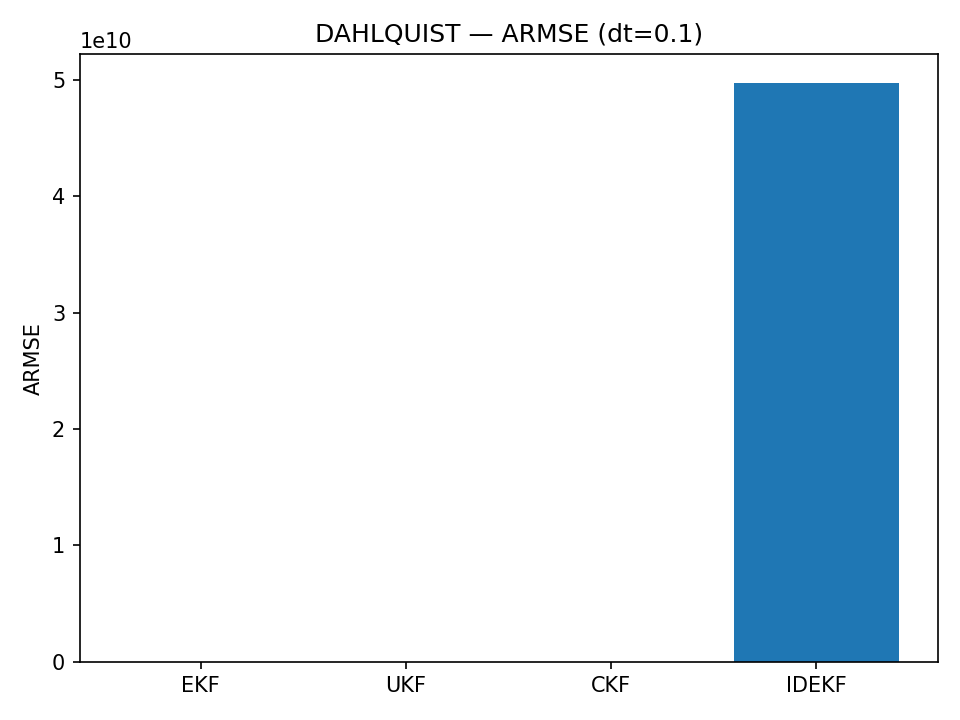
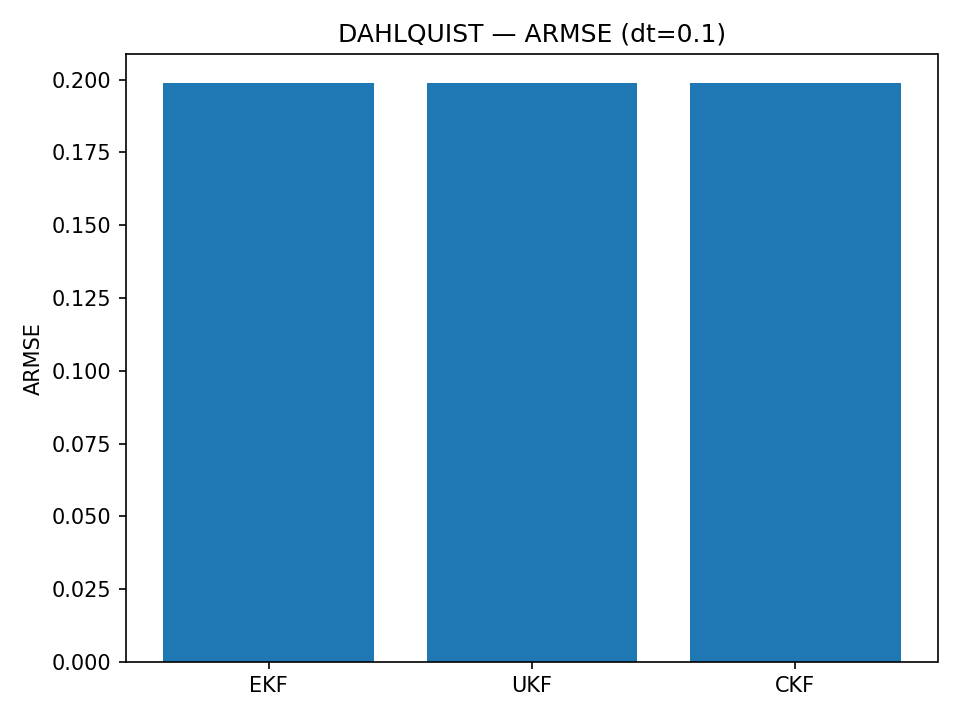
adjusted input for models

diff --git a/filters.py b/filters.py
@@ -219,14 +219,20 @@ class IDEKF:
     def predict(self, x: np.ndarray, P: np.ndarray):
         self._ensure_initialized(x, P)
 
-
-        Phi_k   = self.dm.g(x) 
-        B, V, _ = cov_to_inf(P, self._n)       
+        Phi_k   = self.dm.F(self.u.ravel())
         gamma_k = np.eye(self._n)
         Q_k = self.dm.Q
 
-        self.u, self.B, self.V = tupdate(x, B, V, Phi_k, gamma_k, Q_k)
+        u0 = np.asarray(self.u).reshape(-1,1)   
+        B0 = np.asarray(self.B).reshape(self._n, self._n)
+        V0 = np.asarray(self.V).reshape(-1)
+    
+        self.u, self.B, self.V = tupdate(u0, B0, V0, Phi_k, gamma_k, Q_k)
 
+        self.u = np.asarray(self.u).reshape(-1, 1)                 # (n,1)
+        self.B = np.asarray(self.B).reshape(self._n, self._n)      # (n,n)
+        self.V = np.asarray(self.V).reshape(-1)                    # (n,)
+        
         x_pred = self.u.ravel()
         P_pred = ensure_psd(inf_to_cov(self.V, self.B, self._n))
         return x_pred, P_pred
@@ -234,22 +240,25 @@ class IDEKF:
     def update(self, x_pred: np.ndarray, P_pred: np.ndarray, z):
         z = np.asarray(z).reshape(-1, 1)
 
-        Hk = self.H_jac(x_pred) if callable(self.H_jac) else np.asarray(self.H_jac)
+        # Evaluate and coerce H to (p,n)
+        Hk = self.H_jac(x_pred) if callable(self.H_jac) else self.H_jac
+        Hk = np.asarray(Hk).reshape(self._m, self._n)
 
         h_wrapped = None
         if self.h_fun is not None:
             def h_wrapped(u_vec):
-                u_flat = np.asarray(u_vec).reshape(-1)
-                return np.asarray(self.h_fun(u_flat)).reshape(-1, 1)
-
-        out = mupdate(0, z, self.u, self.B, self.V, self.R, Hk, h_wrapped)
+                return np.asarray(self.h_fun(np.asarray(u_vec).reshape(-1))).reshape(-1,1)
+            
+        out = mupdate(1, z, self.u.reshape(-1,1), self.B, self.V, self.R, Hk, h_wrapped)
         self.u, self.V, self.B = out[0], out[1], out[2]
+
+        self.u = np.asarray(self.u).reshape(-1, 1)
+        self.V = np.asarray(self.V).reshape(-1)
+        self.B = np.asarray(self.B).reshape(self._n, self._n)
+
+        y = (z - (np.asarray(self.h_fun(x_pred)).reshape(-1,1) if self.h_fun else Hk @ x_pred.reshape(-1,1))).ravel()
+        S = ensure_psd(Hk @ P_pred @ Hk.T + self.R)
 
         x_upd = self.u.ravel()
         P_upd = ensure_psd(inf_to_cov(self.V, self.B, self._n))
-
-        y = (z - np.asarray(self.h_fun(x_pred)).reshape(-1,1)).ravel() if self.h_fun is not None \
-            else (z - (Hk @ x_pred.reshape(-1,1))).ravel()
-        S = ensure_psd(Hk @ P_pred @ Hk.T + self.R)
-
         return x_upd, P_upd, y, S
